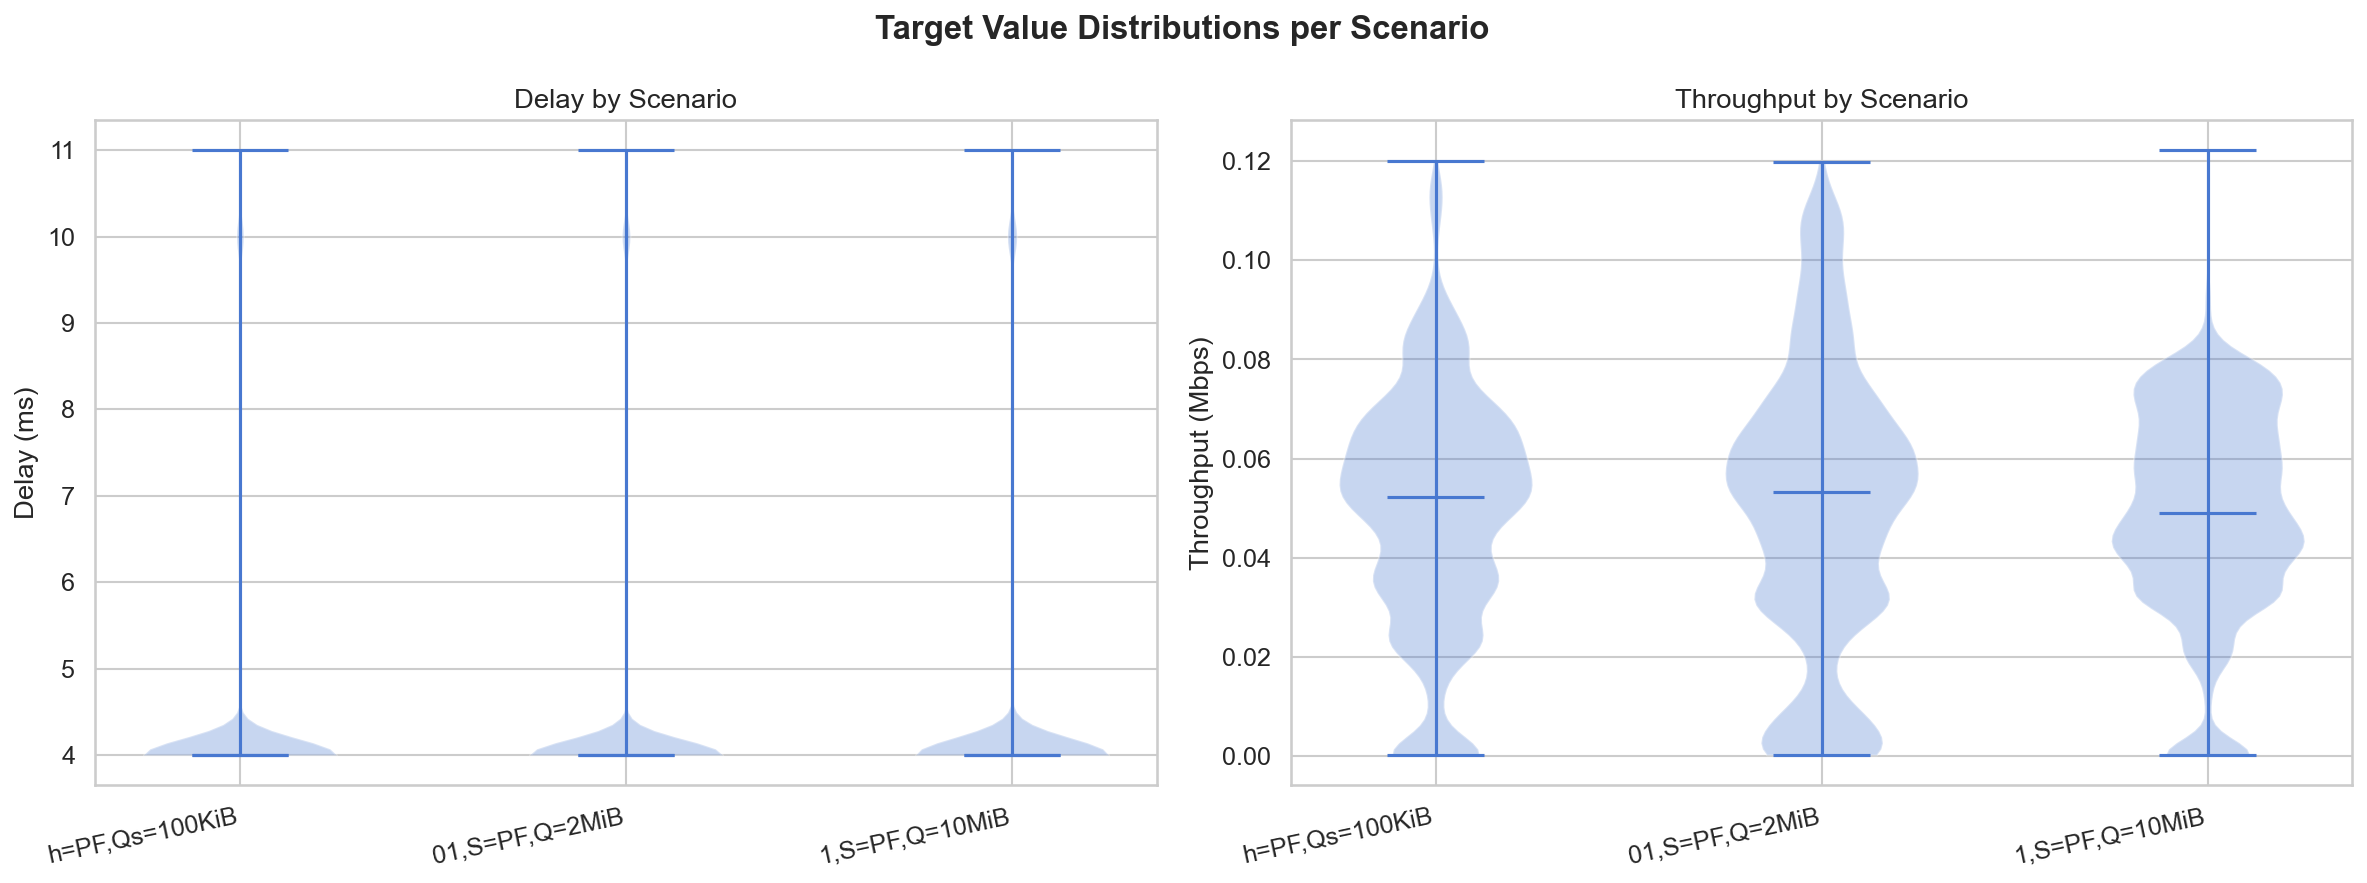
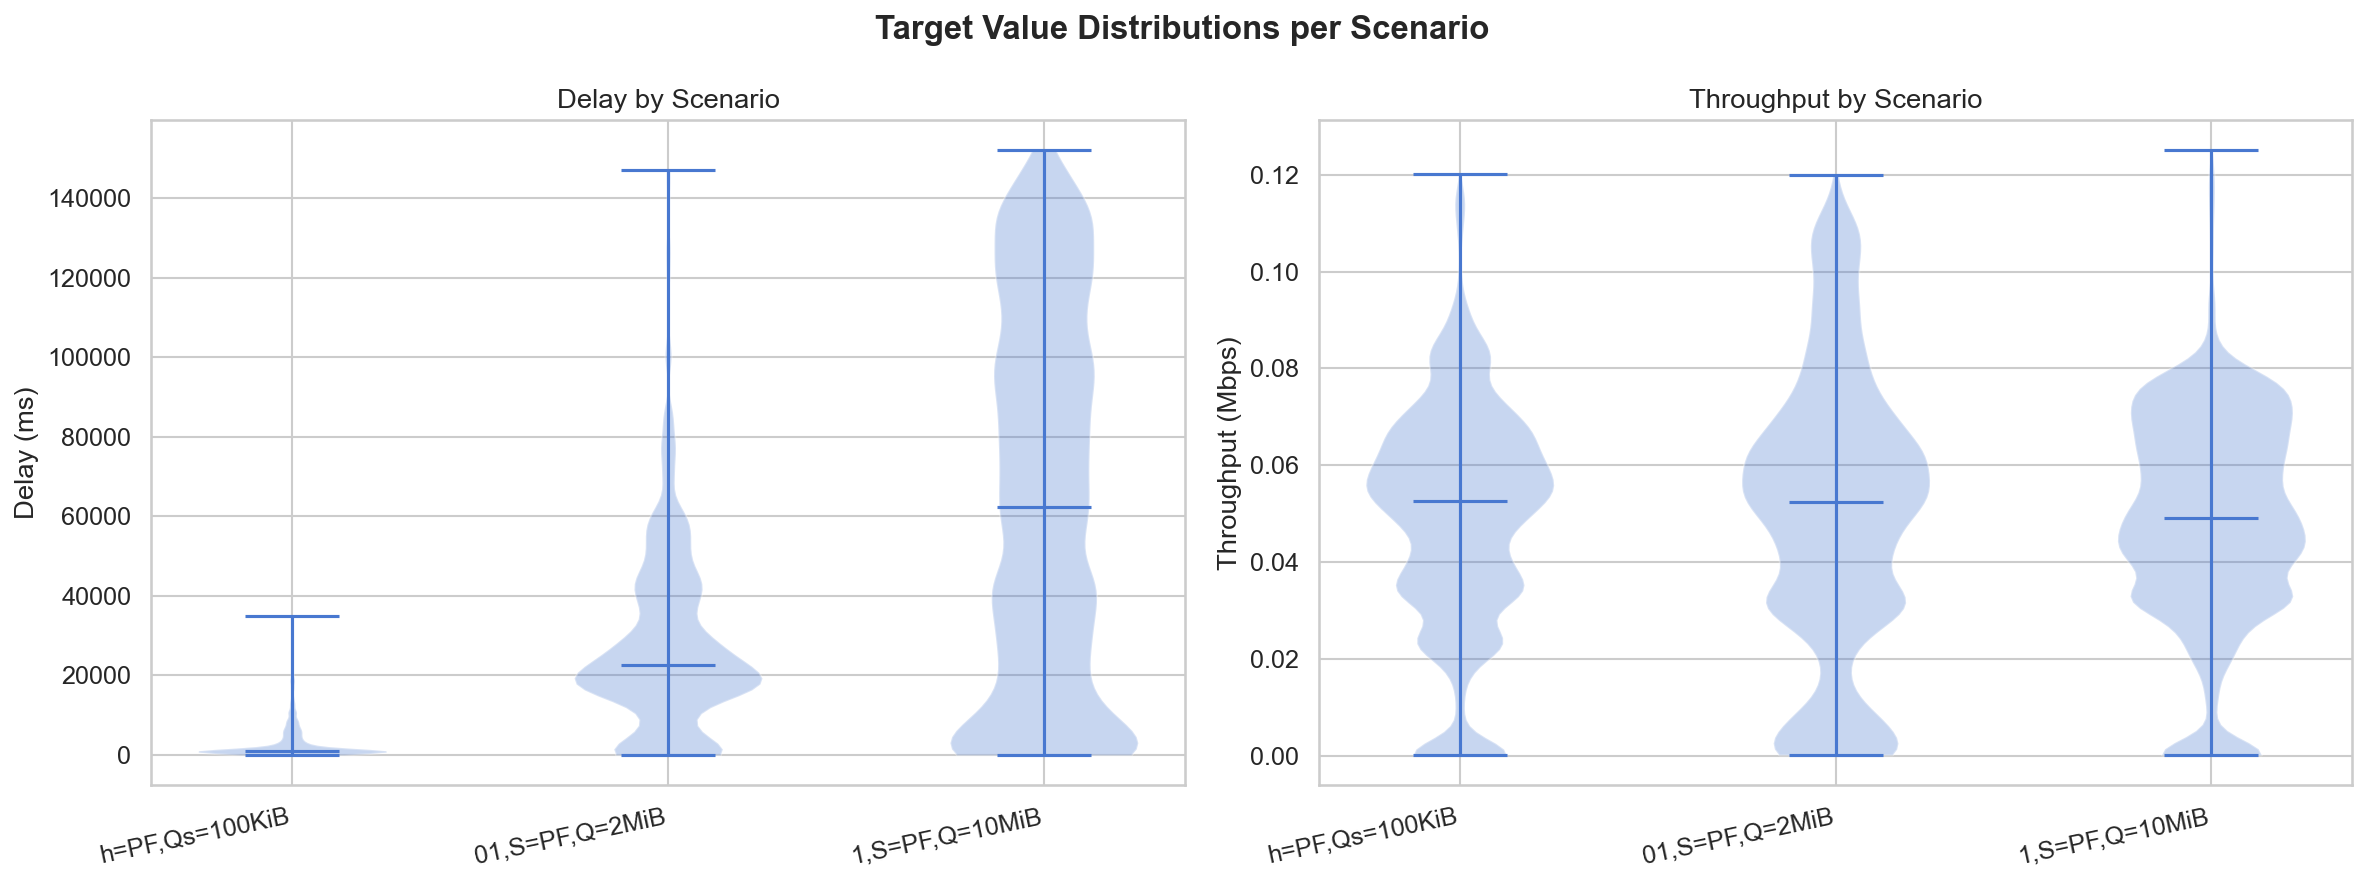
delay rlc add

diff --git a/wireless_gnn/train.py b/wireless_gnn/train.py
@@ -40,6 +40,12 @@ def mape_loss(pred: torch.Tensor, target: torch.Tensor, eps: float = 1e-6) -> to
     return torch.mean(torch.abs((pred - target) / (target.abs() + eps)))
 
 
+def log_huber_loss(pred_log: torch.Tensor, true_log: torch.Tensor,
+                   delta: float = 1.0) -> torch.Tensor:
+    """Huber loss in log-space — robust to scale differences."""
+    return nn.functional.huber_loss(pred_log, true_log, delta=delta)
+
+
 # --------------------------------------------------------------------------- #
 # Single-graph forward + loss
 # --------------------------------------------------------------------------- #
@@ -55,17 +61,30 @@ def process_graph(
     if model.target == 'delay':
         mean = torch.tensor(normalizer.delay_mean, device=device)
         std  = torch.tensor(normalizer.delay_std,  device=device)
-        true = torch.tensor(np.asarray(graph["target_delay"]),
-                            dtype=torch.float32, device=device)
+        true_raw = torch.tensor(np.asarray(graph["target_delay"]),
+                                dtype=torch.float32, device=device)
+
+        # Model predicts in log-space (normalizer stores log1p stats)
+        pred_log = pred * std + mean           # log1p(delay) scale
+        true_log = torch.log1p(true_raw)       # log1p(raw delay)
+
+        # Training loss: Huber in log-space (scale-invariant)
+        loss = log_huber_loss(pred_log, true_log)
+
+        # Reporting metric: MAPE in physical space
+        pred_phys = torch.expm1(pred_log)
+        mape_val  = mape_loss(pred_phys, true_raw).item()
+
     else:
         mean = torch.tensor(normalizer.tput_mean, device=device)
         std  = torch.tensor(normalizer.tput_std,  device=device)
-        true = torch.tensor(np.asarray(graph["target_throughput"]),
-                            dtype=torch.float32, device=device)
+        true_raw = torch.tensor(np.asarray(graph["target_throughput"]),
+                                dtype=torch.float32, device=device)
+        pred_phys = pred * std + mean
+        loss = mape_loss(pred_phys, true_raw)
+        mape_val = loss.item()
 
-    pred_phys = pred * std + mean
-    loss = mape_loss(pred_phys, true)
-    return loss, loss.item()
+    return loss, mape_val
 
 
 # --------------------------------------------------------------------------- #
@@ -305,16 +324,23 @@ def predict(
         std  = torch.tensor(normalizer.delay_std,  device=device)
         key_pred, key_true = "delay_pred", "delay_true"
         true = np.asarray(graph["target_delay"])
+
+        # Denormalize from log-space: z → log1p(delay) → delay
+        pred_log  = pred * std + mean
+        pred_phys = torch.expm1(pred_log).cpu().numpy()
+
+        return {key_pred: pred_phys, key_true: true}
+
     else:
         mean = torch.tensor(normalizer.tput_mean, device=device)
         std  = torch.tensor(normalizer.tput_std,  device=device)
         key_pred, key_true = "throughput_pred", "throughput_true"
         true = np.asarray(graph["target_throughput"])
 
-    return {
-        key_pred: (pred * std + mean).cpu().numpy(),
-        key_true: true,
-    }
+        return {
+            key_pred: (pred * std + mean).cpu().numpy(),
+            key_true: true,
+        }
 
 
 # --------------------------------------------------------------------------- #

diff --git a/wireless_gnn/dataset.py b/wireless_gnn/dataset.py
@@ -33,19 +33,21 @@ class FeatureNormalizer:
         self._delay_vals  = []
         self._tput_vals   = []
         self.fitted = False
+        self.log_delay = True   # delay targets are log1p-transformed
 
         # Will be set after fit()
         self.flow_mean  = self.flow_std  = None
         self.queue_mean = self.queue_std = None
         self.link_mean  = self.link_std  = None
-        self.delay_mean = self.delay_std = None
+        self.delay_mean = self.delay_std = None  # mean/std of log1p(delay)
         self.tput_mean  = self.tput_std  = None
 
     def accumulate(self, graph: dict):
         self._flow_vals.append(graph["flow_feat"])
         self._queue_vals.append(graph["queue_feat"])
         self._link_vals.append(graph["link_feat"])
-        self._delay_vals.append(graph["target_delay"])
+        # Store log1p(delay) for normalization — compresses multi-order-of-magnitude range
+        self._delay_vals.append(np.log1p(graph["target_delay"].astype(np.float64)).astype(np.float32))
         self._tput_vals.append(graph["target_throughput"])
 
     def fit(self, eps: float = 1e-8):
@@ -70,7 +72,8 @@ class FeatureNormalizer:
         g["queue_feat"]        = (graph["queue_feat"]  - self.queue_mean) / self.queue_std
         g["link_feat"]         = (graph["link_feat"]   - self.link_mean)  / self.link_std
         # Targets: normalise for loss, but keep originals for metric reporting
-        g["target_delay_norm"]     = (graph["target_delay"]      - self.delay_mean) / self.delay_std
+        log_delay = np.log1p(graph["target_delay"].astype(np.float64)).astype(np.float32)
+        g["target_delay_norm"]     = (log_delay - self.delay_mean) / self.delay_std
         g["target_throughput_norm"]= (graph["target_throughput"] - self.tput_mean)  / self.tput_std
         return g
 
